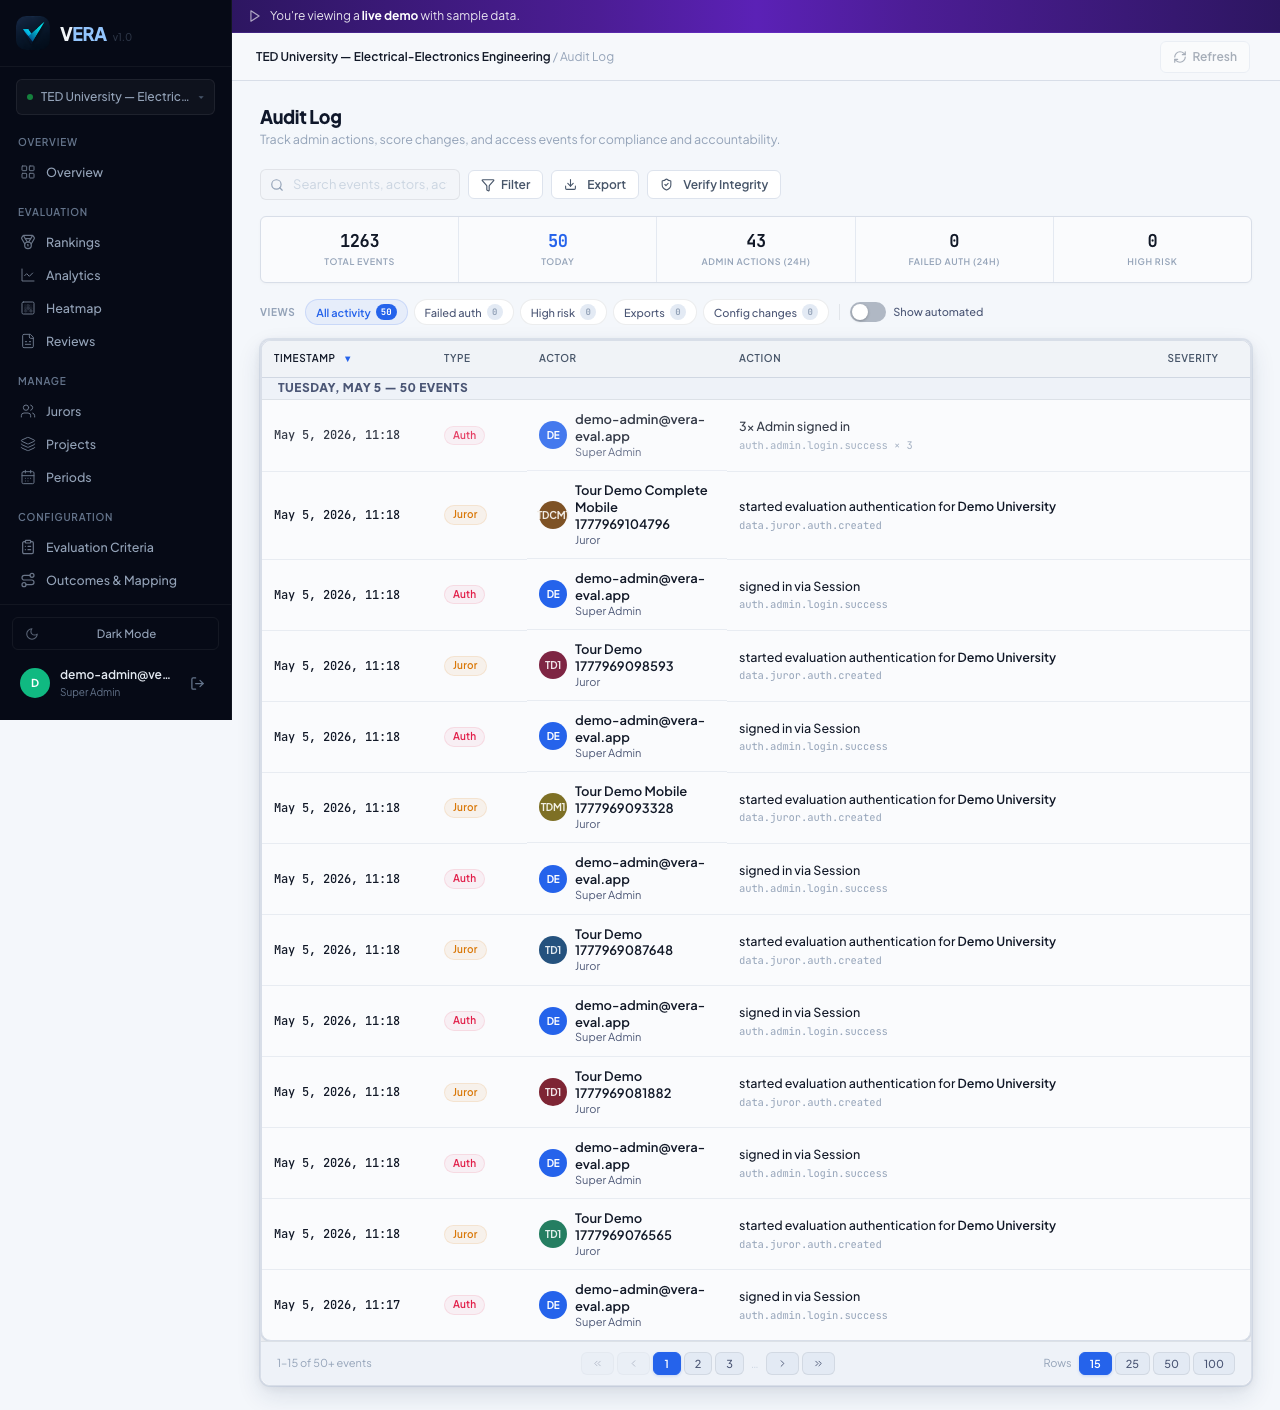
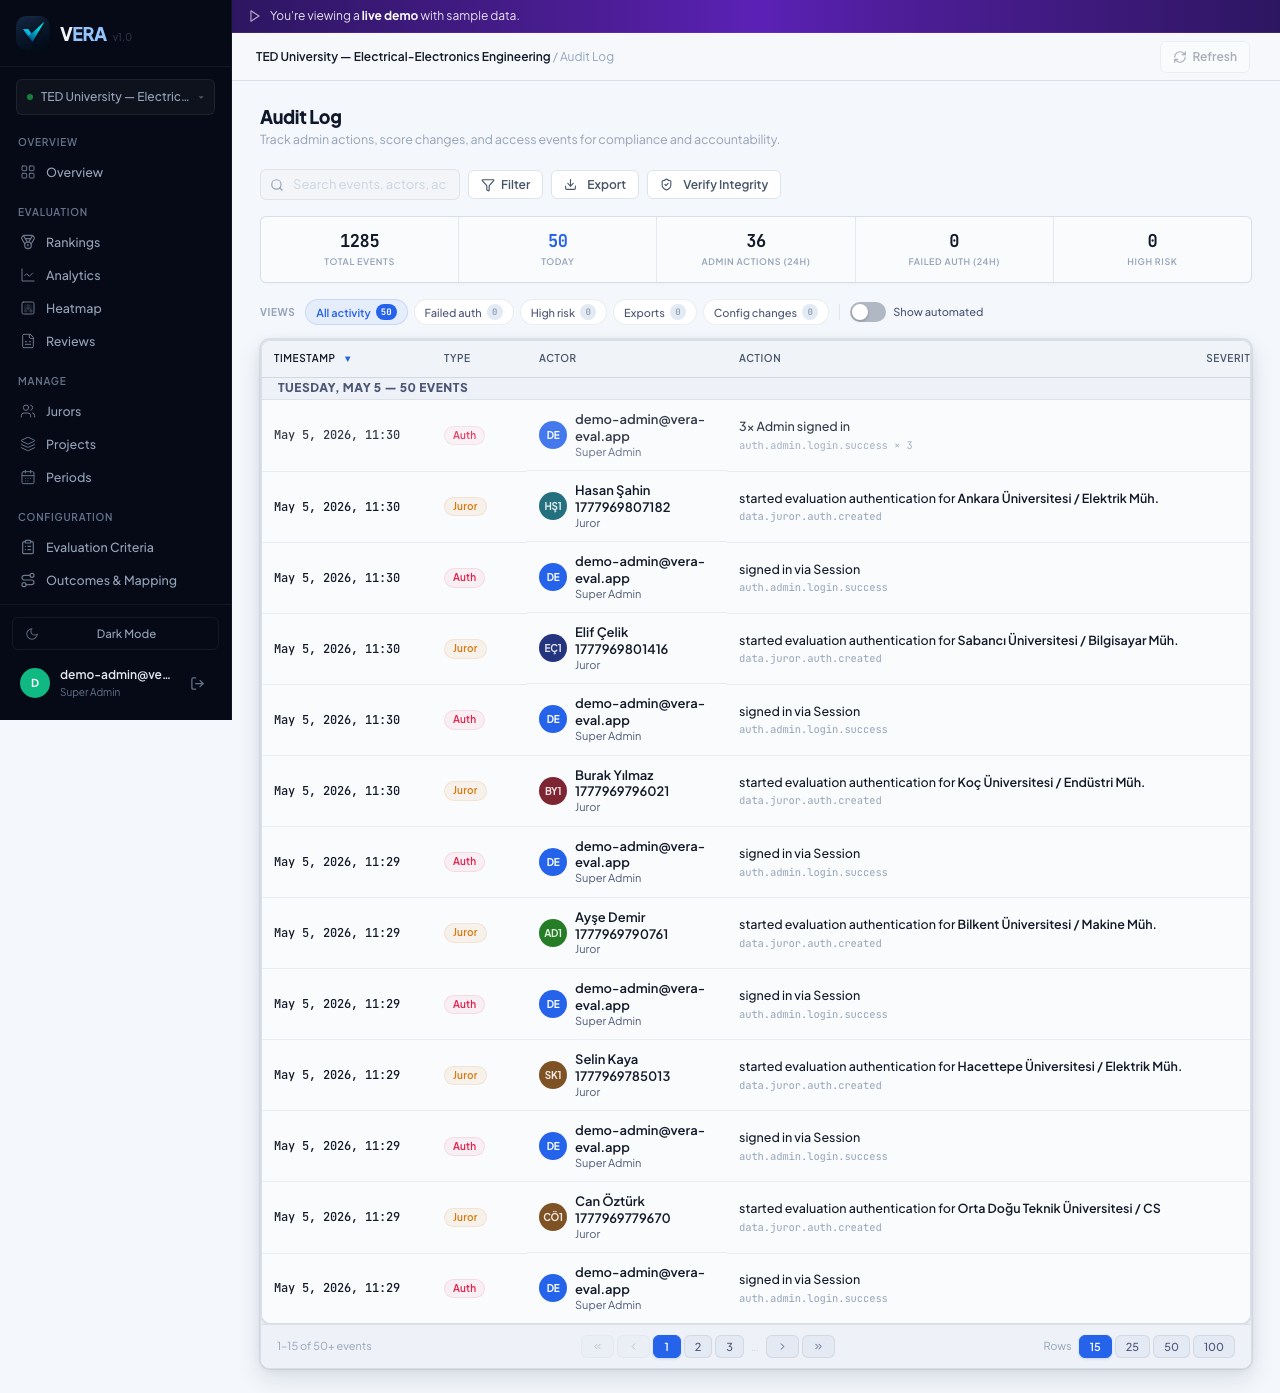
fix(screenshots): replace Tour Demo placeholder names with realistic Turkish juror names
Each juryFlowToPin call now receives a distinct realistic name + Turkish university
affiliation so screenshots show plausible-looking jury data instead of debug strings.

diff --git a/e2e/screenshots/jury-tour.spec.ts b/e2e/screenshots/jury-tour.spec.ts
@@ -26,15 +26,15 @@ test("jury tour: 02 identity", async ({ page }) => {
 test("jury tour: 03 pin entry", async ({ page }) => {
   // Two-pass: fresh jurors land on /pin-reveal; returning jurors (pin_reveal_shown=true) land on /pin.
   // First pass creates the juror and completes pin-reveal, second pass re-enters to reach /pin.
-  const jurorName = `Tour Demo Pin ${Date.now()}`;
-  await juryFlowToPin(page, jurorName);
+  const jurorName = `Mehmet Yıldız ${Date.now()}`;
+  await juryFlowToPin(page, jurorName, "İstanbul Teknik Üniversitesi / EE");
   await juryFlowFromPinRevealToProgress(page);
   // Re-enter as same juror → routes to /pin (PIN entry screen).
   await freshJurorEntryFlow(page);
   await page.getByTestId("jury-arrival-step").click();
   await expect(page.getByTestId("jury-name-input")).toBeVisible();
   await page.getByTestId("jury-name-input").fill(jurorName);
-  await page.getByTestId("jury-affiliation-input").fill("Demo University");
+  await page.getByTestId("jury-affiliation-input").fill("İstanbul Teknik Üniversitesi / EE");
   await page.getByTestId("jury-identity-submit").click();
   await page.waitForURL(/\/demo\/jury\/pin$/, { timeout: 15_000 });
   await expect(page.getByTestId("jury-pin-input-0")).toBeVisible({ timeout: 10_000 });
@@ -42,14 +42,14 @@ test("jury tour: 03 pin entry", async ({ page }) => {
 });
 
 test("jury tour: 04 pin reveal", async ({ page }) => {
-  await juryFlowToPin(page);
+  await juryFlowToPin(page, `Can Öztürk ${Date.now()}`, "Orta Doğu Teknik Üniversitesi / CS");
   await page.waitForURL(/\/demo\/jury\/pin-reveal/, { timeout: 15_000 });
   await expect(page.locator("button:has-text('Begin Evaluation')")).toBeVisible({ timeout: 10_000 });
   await captureScreenshot(page, "jury/04-pin-reveal.png");
 });
 
 test("jury tour: 05 progress", async ({ page }) => {
-  await juryFlowToPin(page);
+  await juryFlowToPin(page, `Selin Kaya ${Date.now()}`, "Hacettepe Üniversitesi / Elektrik Müh.");
   await juryFlowFromPinRevealToProgress(page);
   await expect(page.getByTestId("jury-progress-title")).toBeVisible();
   await captureScreenshot(page, "jury/05-progress.png");
@@ -57,14 +57,14 @@ test("jury tour: 05 progress", async ({ page }) => {
 
 test("jury tour: 06 evaluate (desktop + mobile)", async ({ page }) => {
   // Desktop capture
-  await juryFlowToPin(page);
+  await juryFlowToPin(page, `Ayşe Demir ${Date.now()}`, "Bilkent Üniversitesi / Makine Müh.");
   await juryFlowFromPinRevealToProgress(page);
   await juryFlowFromProgressToEvaluate(page);
   await captureScreenshot(page, "jury/06-evaluate.png");
 
   // Mobile capture — fresh context via new juror name
   await setMobileViewport(page);
-  await juryFlowToPin(page, `Tour Demo Mobile ${Date.now()}`);
+  await juryFlowToPin(page, `Burak Yılmaz ${Date.now()}`, "Koç Üniversitesi / Endüstri Müh.");
   await juryFlowFromPinRevealToProgress(page);
   await juryFlowFromProgressToEvaluate(page);
   await captureScreenshot(page, "jury/06-evaluate-mobile.png");
@@ -72,7 +72,7 @@ test("jury tour: 06 evaluate (desktop + mobile)", async ({ page }) => {
 
 test("jury tour: 07 complete (desktop + mobile)", async ({ page }) => {
   // Navigate to evaluate step and fill all scores to enable the submit button
-  await juryFlowToPin(page);
+  await juryFlowToPin(page, `Elif Çelik ${Date.now()}`, "Sabancı Üniversitesi / Bilgisayar Müh.");
   await juryFlowFromPinRevealToProgress(page);
   await juryFlowFromProgressToEvaluate(page);
 
@@ -94,7 +94,7 @@ test("jury tour: 07 complete (desktop + mobile)", async ({ page }) => {
 
   // Mobile capture
   await setMobileViewport(page);
-  await juryFlowToPin(page, `Tour Demo Complete Mobile ${Date.now()}`);
+  await juryFlowToPin(page, `Hasan Şahin ${Date.now()}`, "Ankara Üniversitesi / Elektrik Müh.");
   await juryFlowFromPinRevealToProgress(page);
   await juryFlowFromProgressToEvaluate(page);
 

diff --git a/e2e/screenshots/_helpers.ts b/e2e/screenshots/_helpers.ts
@@ -73,13 +73,14 @@ export async function freshJurorEntryFlow(page: Page): Promise<void> {
  */
 export async function juryFlowToPin(
   page: Page,
-  jurorName = `Tour Demo ${Date.now()}`,
+  jurorName = `Zeynep Arslan ${Date.now()}`,
+  affiliation = "Boğaziçi Üniversitesi / Bilgisayar Müh.",
 ): Promise<void> {
   await freshJurorEntryFlow(page);
   await page.getByTestId("jury-arrival-step").click();
   await expect(page.getByTestId("jury-name-input")).toBeVisible();
   await page.getByTestId("jury-name-input").fill(jurorName);
-  await page.getByTestId("jury-affiliation-input").fill("Demo University");
+  await page.getByTestId("jury-affiliation-input").fill(affiliation);
   await page.getByTestId("jury-identity-submit").click();
   await page.waitForURL(/\/demo\/jury\/pin(?:-reveal)?/, { timeout: 15_000 });
 }
